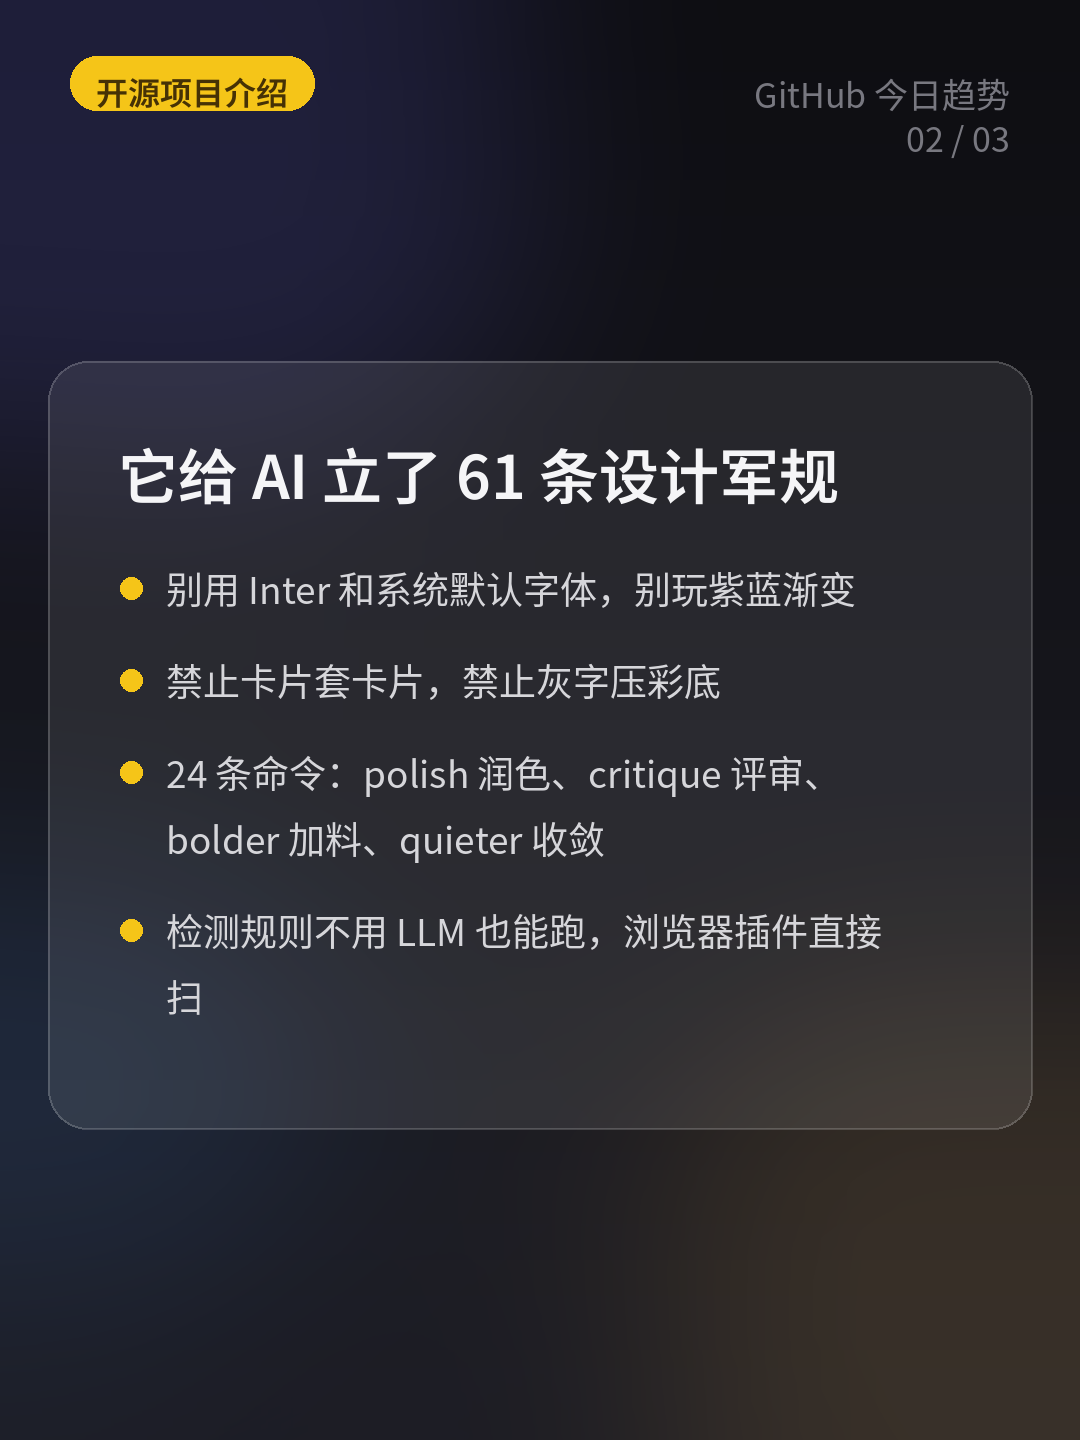
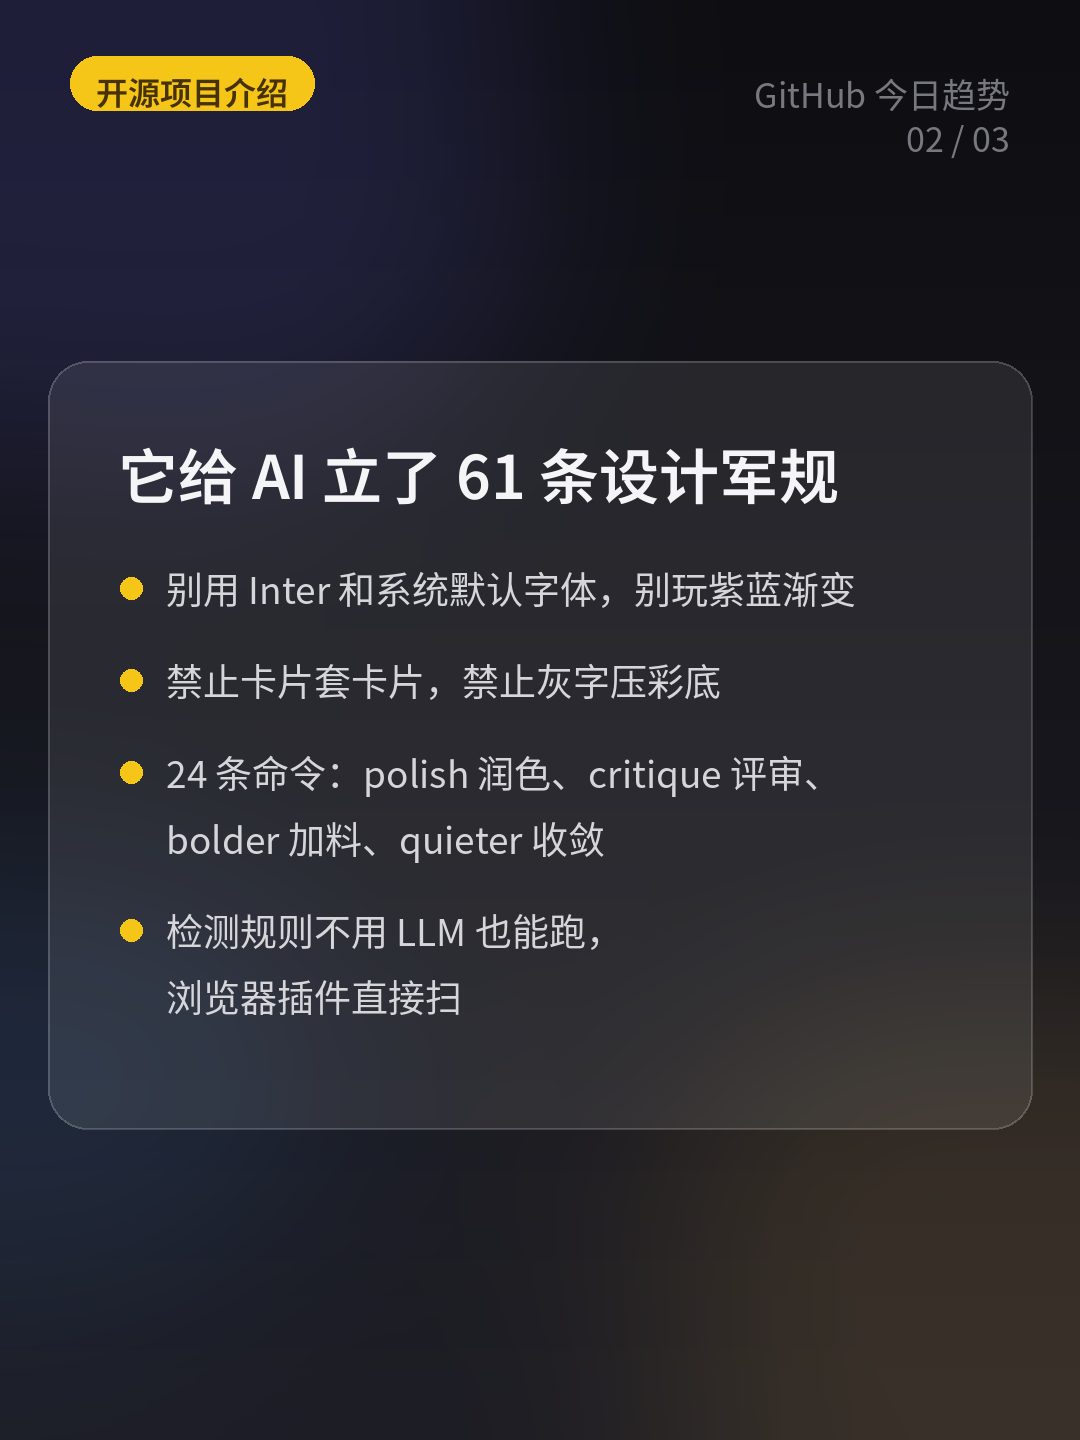
防末行孤字：自动匀字，行高节奏修复

Changed region(s): [[0.1528, 0.6562, 0.4278, 0.7188], [0.5806, 0.625, 0.825, 0.6562]]

diff --git a/scripts/generate_xhs_project_cards.py b/scripts/generate_xhs_project_cards.py
@@ -28,6 +28,44 @@ def _fr(size):
         return ImageFont.truetype(FONT_REG, size)
 
 
+PUNCT = set('，。！？；：、）】”’')
+
+def _wrap2(d, text, font, max_w, min_last=4):
+    """换行 + 防末行孤字：末行不足 min_last 个字时，从上一行匀字下来。"""
+    lines = _wrap(d, _clean(text), font, max_w)
+    lines = list(lines)
+    guard = 0
+    while len(lines) >= 2 and len(lines[-1].strip()) < min_last and guard < 3:
+        guard += 1
+        last = lines.pop()
+        prev = lines.pop()
+        combo = prev + last
+        n = len(combo)
+        target = int(n * 0.55)
+        cut = -1
+        for i in range(target, n - 1):
+            if combo[i] in PUNCT:
+                cut = i + 1
+                break
+        if cut < 0:
+            for i in range(target, 1, -1):
+                if combo[i] in PUNCT:
+                    cut = i + 1
+                    break
+        if cut < 0:
+            cut = target
+        l1, l2 = combo[:cut], combo[cut:]
+        if (d.textlength(l1, font=font) <= max_w
+                and d.textlength(l2, font=font) <= max_w
+                and len(l2.strip()) >= min_last):
+            lines.append(l1)
+            lines.append(l2)
+        else:
+            lines.append(prev)
+            lines.append(last)
+            break
+    return lines
+
 # 深色苹果风配色
 INK = (245, 245, 247)
 GRAY = (161, 161, 166)
@@ -99,10 +137,10 @@ def draw_cover(title, subtitle, stats, points, path):
     d = _header(img)
     # 中央毛玻璃面板
     f_t, f_s, f_st = _fs(92), _fr(42), _fr(36)
-    tl = _wrap(d, _clean(title), f_t, W - 280)[:2]
-    sl = _wrap(d, _clean(subtitle), f_s, W - 280)[:2]
+    tl = _wrap2(d, _clean(title), f_t, W - 280)[:2]
+    sl = _wrap2(d, _clean(subtitle), f_s, W - 280)[:2]
     f_p = _fr(38)
-    pl = [_wrap(d, _clean(p), f_p, W - 280 - 90)[:2] for p in points]
+    pl = [_wrap2(d, _clean(p), f_p, W - 280 - 90)[:2] for p in points]
     _top_pad, _bot_pad = 72, 72
     ch = (_top_pad + len(tl) * 118 + 14 + len(sl) * 62 + 44
           + 96 + sum(len(x) * 62 + 40 for x in pl) + _bot_pad)
@@ -145,13 +183,13 @@ def draw_card(title, bullets, code, idx, total, path):
     tw = d.textlength(t, font=f)
     d.text((W - 70 - tw, 112), t, font=f, fill=MUTED)
     f_title, f_b = _fs(60), _fr(37)
-    tl = _wrap(d, _clean(title), f_title, W - 280)[:2]
-    bl = [_wrap(d, _clean(b), f_b, W - 280 - 60)[:3] for b in bullets]
+    tl = _wrap2(d, _clean(title), f_title, W - 280)[:2]
+    bl = [_wrap2(d, _clean(b), f_b, W - 280 - 60)[:3] for b in bullets]
     chh = 0
     cl = []
     if code:
         f_c = _fr(36)
-        cl = _wrap(d, _clean(code), f_c, W - 280 - 80)
+        cl = _wrap2(d, _clean(code), f_c, W - 280 - 80)
         chh = 30 + 40 + len(cl) * 56 + 34
     _top_pad, _bot_pad = 68, 68
     ch = (_top_pad + len(tl) * 88 + 44 + sum(len(x) * 66 + 26 for x in bl)
@@ -191,8 +229,8 @@ def draw_end(jinju, question, path):
     img = _bg()
     d = _header(img)
     f_j, f_q = _fs(52), _fr(40)
-    jl = _wrap(d, _clean(jinju), f_j, W - 280)[:3]
-    ql = _wrap(d, _clean(question), f_q, W - 280)[:3]
+    jl = _wrap2(d, _clean(jinju), f_j, W - 280)[:3]
+    ql = _wrap2(d, _clean(question), f_q, W - 280)[:3]
     t = '收藏这篇，下次让 AI 做页面时翻出来'
     f_btn = _fs(38)
     _top_pad, _bot_pad = 120, 72
